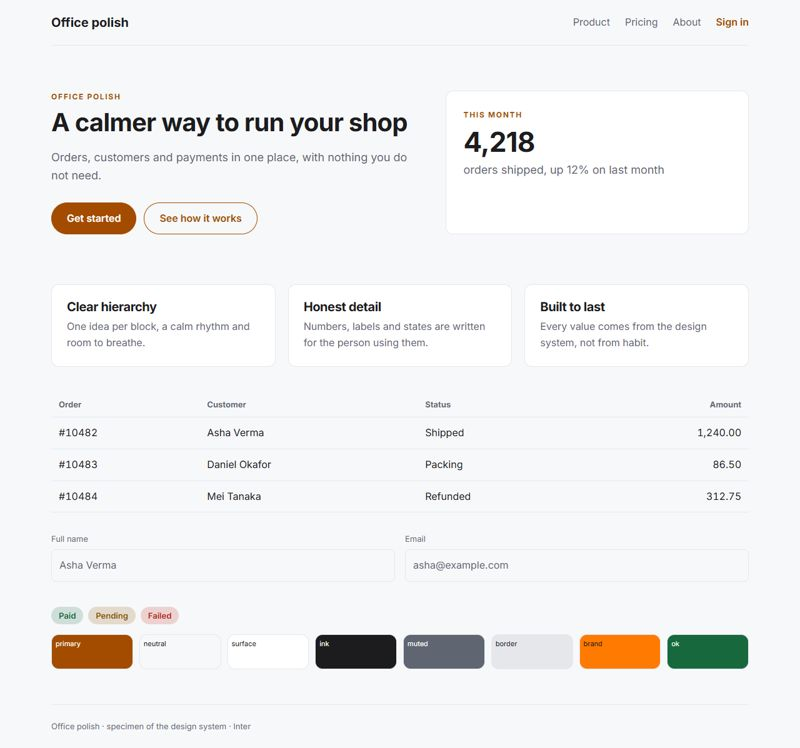
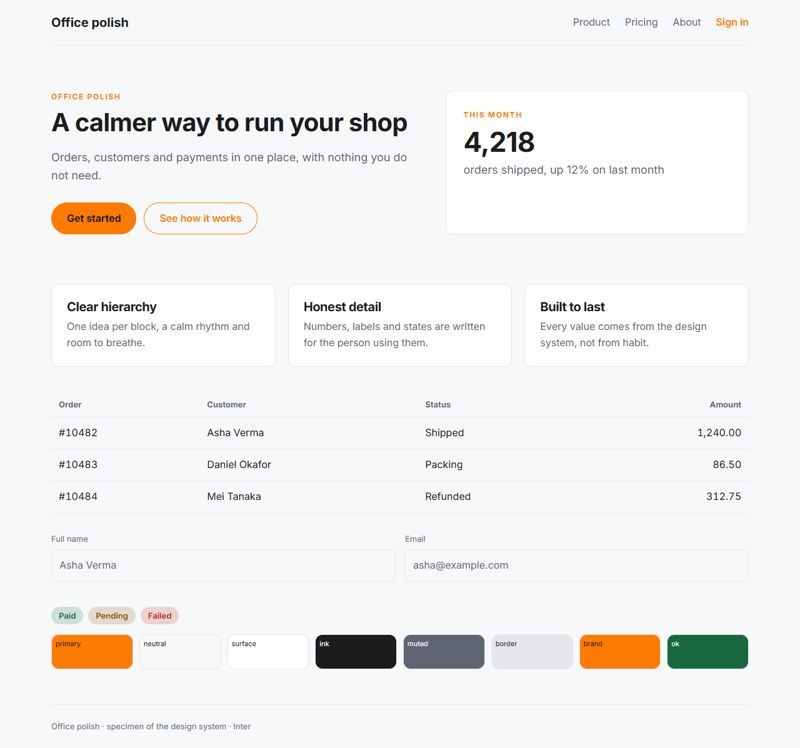
Bright orange default for the office design, C22 scorer reads cost and counts parametrized tests, record approvals (D-497)

Changed region(s): [[0.0625, 0.246, 0.3125, 0.3382], [0.0625, 0.8302, 0.1875, 0.8917], [0.0625, 0.123, 0.1562, 0.1537]]

diff --git a/scripts/dev/make_design_systems.py b/scripts/dev/make_design_systems.py
@@ -13,6 +13,7 @@ from pathlib import Path
 
 from forge.brand.kit import mix, readable_on
 from forge.designsystem.lint import describe_findings, lint_text
+from forge.designsystem.palettes import apply_palette, palette_by_id
 from forge.designsystem.spec import parse_design_md
 from forge.designsystem.specimen import specimen_html
 from forge.tools.design_candidates import draw
@@ -496,7 +497,7 @@ SYSTEMS = [
         "#FFFFFF",
         "#1C1C1E",
         "#5F6672",
-        "#A34C00",
+        "#FF7A00",
         "#E5E7EB",
         "Inter",
         "Inter",
@@ -505,7 +506,7 @@ SYSTEMS = [
         True,
         (5, 2, 4),
         "An office tool people use all day: quiet, regular and finished. One orange accent marks the main action, the active menu item and the counts; everything else is neutral. Every coloured label is built the same way, every card the same way, so the whole app reads as one system.",
-        "Orange is the only accent. The filled controls use the deeper orange (primary) so white text passes contrast; the bright orange (brand) is for the active-item bar, tab underline, progress, focus ring and icon chips, never for text on white.",
+        "Orange is the only accent. The filled controls use the bright orange (primary) with white text, a choice the owner accepted below the contrast guideline; the same orange (brand) marks the active-item bar, tab underline, progress, focus ring and icon chips. Orange is never used for small text on white; for a contrast-safe look pick the deep orange with design_palette.",
         [
             "One accent: orange marks the main action, the active menu item and the counts; everything else stays neutral",
             "Every coloured label is built the same way: a pale tint of the colour, darker text of the same hue and a thin inner ring",
@@ -526,7 +527,7 @@ SYSTEMS = [
         display_weight=700,
         display_size=40,
         tracking="-0.02em",
-        gaps="Inter has no Bengali or other Indic letters: for such content name a fallback face (Tiro Bangla for Bengali) with find_font. White text on the bright orange #FF7A00 is only 2.6 to 1, so filled controls use the deeper orange.",
+        gaps="Inter has no Bengali or other Indic letters: for such content name a fallback face (Tiro Bangla for Bengali) with find_font. White text on the bright orange #FF7A00 is only 2.6 to 1: the owner accepted this for filled controls, so keep those labels large and bold, and offer the deep orange (#A34C00, 5.9 to 1) when the audience needs the guideline met.",
     ),
     System(
         "ds-office-polish-dark",
@@ -726,6 +727,8 @@ async def main() -> int:
     status = 0
     for system in SYSTEMS:
         text = design_md(system)
+        if system.id == "ds-office-polish":
+            text = apply_palette(text, palette_by_id("orange-bright"))
         findings = [f for f in lint_text(text) if f.severity in ("error", "warning")]
         if findings:
             print(f"{system.id}: {describe_findings(findings)}")

diff --git a/scripts/dev/existing_bench/harness.py b/scripts/dev/existing_bench/harness.py
@@ -153,9 +153,9 @@ def is_test_file(relative: str) -> bool:
 def count_test_functions(path: Path) -> int:
     if not path.is_file():
         return 0
-    return len(
-        re.findall(r"^\s*(?:async\s+)?def test_", path.read_text(encoding="utf-8", errors="replace"), re.M)
-    )
+    text = path.read_text(encoding="utf-8", errors="replace")
+    # a new case in an existing parametrized test is a new test too, so `pytest.param(` counts as one
+    return len(re.findall(r"^\s*(?:async\s+)?def test_", text, re.M)) + text.count("pytest.param(")
 
 
 def tests_added(pristine: Path, delivered: Path, changes: dict[str, list[str]]) -> int:
@@ -402,6 +402,17 @@ def navigation(events: list[dict[str, Any]], expected: tuple[str, ...]) -> dict[
         "first_event": stamps[0] if stamps else None,
         "last_event": stamps[-1] if stamps else None,
     }
+
+
+def run_cost(events: list[dict[str, Any]]) -> float | None:
+    """The run's cost in USD: the largest `total_usd` of the cost_updated events (the counter only grows)."""
+    costs = [
+        float(event["payload"]["total_usd"])
+        for event in events
+        if event.get("type") == "cost_updated"
+        and isinstance(event.get("payload", {}).get("total_usd"), int | float)
+    ]
+    return round(max(costs), 4) if costs else None
 
 
 def seconds_between(first: str | None, last: str | None) -> int | None:

diff --git a/scripts/dev/run_existing_codebase_bench.py b/scripts/dev/run_existing_codebase_bench.py
@@ -104,7 +104,7 @@ def evaluate(
     result["seconds"] = (
         args.seconds if args.seconds is not None else H.seconds_between(nav["first_event"], nav["last_event"])
     )
-    result["cost_usd"] = args.cost
+    result["cost_usd"] = args.cost if args.cost is not None else H.run_cost(events)
     result["where_lost"] = args.where_lost or ""
     reasons: list[str] = []
     if result["check"]["status"] == "fail":

diff --git a/TODO.md b/TODO.md
@@ -190,9 +190,9 @@ Things only you can do or decide. Everything else below can be built without you
 - [ ] Re-run the three-design task (`designs/design-a..c`, ports 5171-5173) on the office laptop and score the result with the seven-line rubric; tune the critic's SHIP bar from real runs (too lenient / too harsh)
 - [x] (reachable: reach_smoke on the office laptop 2026-10-13, no bundling needed) Check that `raw.githubusercontent.com` is reachable from the office laptop (brand DESIGN.md fetch); if blocked, bundle five or six starter DESIGN.md files in our own words
 - [x] (done 2026-10-15: the `npx shadcn` commands ran on the office laptop, D-401, and the whole `shadcn_setup` tool here, D-402) **(registry ui.shadcn.com and the npm registry are reachable, reach_smoke 2026-10-13; the `npx shadcn` commands themselves are still untried) Check that the shadcn CLI and the shadcn/Magic UI registries are reachable from the office laptop**: run `npx shadcn@latest --version`, then `npx shadcn@latest add button` and `npx shadcn@latest add "@magicui/marquee"` in a scratch Vite project; if npm or `ui.shadcn.com` is blocked, say so and DebCraft keeps using `components-native.tsx` and the daisyUI quickstart offline (daisyUI needs only npm).
-- [ ] **Design studio (2c): approve the plan.** Answer: adopt Google's DESIGN.md as the format; Python port; bundle only own files plus CC0 prompts; autonomous style choice with an optional ask-me setting; whether to ask shadcn.io for permission to bundle its files (recommended: no); import only from a local file or one typed link; and whether to build DS1 to DS5 in one go or stop after DS3 to look at results (recommended: stop after DS3).
-- [ ] **Push the 2026-10-26 commits when you say so** (the diagram overlap check D-484, the audit fix D-485 and the concept step D-486 are pushed; D-487 to D-491 are local until you approve).
-- [ ] **Default orange for `ds-office-polish`:** you prefer the original bright orange (white text 2.6 to 1); today the design system defaults to the contrast-safe deep orange and `design_palette` lets the user pick the bright one (recorded as accepted). Say if the default should be the bright orange.
+- [x] **(approved 2026-10-27, D-497, recommended answers; DS1 to DS5 were already built)** **Design studio (2c): approve the plan.** Answer: adopt Google's DESIGN.md as the format; Python port; bundle only own files plus CC0 prompts; autonomous style choice with an optional ask-me setting; whether to ask shadcn.io for permission to bundle its files (recommended: no); import only from a local file or one typed link; and whether to build DS1 to DS5 in one go or stop after DS3 to look at results (recommended: stop after DS3).
+- [x] **(approved and pushed 2026-10-27, D-497)** **Push the 2026-10-26 commits when you say so** (the diagram overlap check D-484, the audit fix D-485 and the concept step D-486 are pushed; D-487 to D-491 are local until you approve).
+- [x] **(done 2026-10-27, D-497: bright orange is the default, recorded as accepted)** **Default orange for `ds-office-polish`:** you prefer the original bright orange (white text 2.6 to 1); today the design system defaults to the contrast-safe deep orange and `design_palette` lets the user pick the bright one (recorded as accepted). Say if the default should be the bright orange.
 - [ ] Optional: user installs taste-skill with `forge skill add https://github.com/Leonxlnx/taste-skill` if they want its full rule set (conflicts: it bans Inter, serifs, Lucide)
 - [x] **Presentations, decision 1: design engine.** Keep improving the free-form element list (cheaper, built) or add the HTML/CSS design path (P3.1; more freedom, large). Recommendation: P1 helpers first, decide after the benchmark. **ANSWERED 2026-10-13: both in stages (D-274): improve the free-form element engine now (P1), start the HTML/CSS path only if the benchmark shows the ceiling is too low.**
 - [x] **Presentations, decision 2: rendering without PowerPoint.** Optional LibreOffice (often needs admin rights), or our own renderer from the HTML path. Recommendation: optional LibreOffice plus PowerPoint as now. **ANSWERED 2026-10-13: PowerPoint only. No LibreOffice or own renderer; slide previews need PowerPoint on the machine, and on machines without it DebCraft says so.**

diff --git a/docs/DECISIONS.md b/docs/DECISIONS.md
@@ -4261,3 +4261,6 @@ BO10/BO11 from docs/WORDPRESS_STUDY.md, decided without waiting (D-051): `app-li
 
 ## D-496 — Eight more brand-page layouts (BO9, 2026-10-27)
 Eight new plain-HTML compositions, each with a drawn scene, its React twin and previews: `wellness-retreat`, `local-trades`, `event-lineup`, `portfolio-casestudies`, `saas-product-tour`, `nonprofit-appeal`, `school-courses`, `boutique-hotel` (16 `lay-` layouts now). They add the section kinds `docs/WORDPRESS_STUDY.md` listed as missing: centred hero, numbered steps, team and teacher lists, comparison table, alternating rows, masonry work grid, address cards, donate selector, multi-column footer. Options considered: (a) one layout per subject with colour slots only (rejected: pages would still share one structure), (b) copy block patterns from the WordPress pattern directory (rejected: GPL, clean-room rule D-492), (c) write our own layouts per subject (chosen; all markup, words and drawings original, so no licence attaches). Authored by four subagents in parallel, each checked at 1280 and 375 px (no sideways scroll, empty style audit) and the pages looked at. Known weak spots: the hotel hero's drawn building is mostly under the text gradient at phone width; the demo forms have no script (`action="#"`). Previews come from the new `scripts/dev/make_composition_previews.py`. Not measured: whether pages built from these vary more in live runs (needs a live brand-page benchmark).
+
+## D-497 — The three approvals (2026-10-27)
+The user approved the three waiting items and said the office-laptop work can wait. (1) **Push:** the local commits since 9aa8de3 (D-487 to D-496 and later) are pushed. (2) **Orange default:** `ds-office-polish` now starts from the bright orange `#FF7A00` with white text on filled controls, recorded as `contrast-accepted` (hover `#D96800`) so the lint and the audit leave it alone; generated by applying the `orange-bright` palette in `scripts/dev/make_design_systems.py`. The deep orange `#A34C00` (5.9 to 1) stays one choice away in `design_palette`, and the recipe says to keep filled-control labels large and bold. Options considered: keep the deep default (rejected: the user prefers the original look), a dark label on the bright orange (rejected: not what they asked for). (3) **Design studio plan (2c):** approved with the recommended answers: Google's DESIGN.md as the format, Python port, bundle only own files plus CC0 prompts (nothing bundled, D-387), the model chooses the style on its own (the ask-me setting was decided against, D-396), no request to shadcn.io, import only from a local file or one typed link. DS1 to DS5 were already built (D-348 to D-352); nothing new to build from this approval.

diff --git a/src/forge/skills/ui-design-quality/recipes/design-systems/ds-office-polish.design.md b/src/forge/skills/ui-design-quality/recipes/design-systems/ds-office-polish.design.md
@@ -6,8 +6,9 @@ dials:
   density: 5
   variance: 2
   motion: 4
+contrast-accepted: ["#FF7A00", "#D96800"]
 colors:
-  primary: "#A34C00"
+  primary: "#FF7A00"
   neutral: "#F7F8FA"
   surface: "#FFFFFF"
   ink: "#1C1C1E"
@@ -59,7 +60,7 @@ components:
     rounded: "{rounded.pill}"
     padding: 12px
   button-primary-hover:
-    backgroundColor: "#8B4100"
+    backgroundColor: "#D96800"
     textColor: "#FFFFFF"
   card:
     backgroundColor: "{colors.surface}"
@@ -80,7 +81,7 @@ An office tool people use all day: quiet, regular and finished. One orange accen
 Dials: VISUAL_DENSITY 5, DESIGN_VARIANCE 2, MOTION_INTENSITY 4 (1-10). Use for: back office, admin, crm, case management, government, operations, erp.
 
 ## Colors
-Orange is the only accent. The filled controls use the deeper orange (primary) so white text passes contrast; the bright orange (brand) is for the active-item bar, tab underline, progress, focus ring and icon chips, never for text on white.
+Orange is the only accent. The filled controls use the bright orange (primary) with white text, a choice the owner accepted below the contrast guideline; the same orange (brand) marks the active-item bar, tab underline, progress, focus ring and icon chips. Orange is never used for small text on white; for a contrast-safe look pick the deep orange with design_palette.
 
 ## Typography
 Inter for display and headings, Inter for text. Numbers in tables use tabular figures.
@@ -105,5 +106,5 @@ Corners 8px and 12px, buttons are pills.
 Grids collapse to one column at 768px, navigation to a menu, tables to cards; touch targets are at least 44px.
 
 ## Known Gaps
-- Inter has no Bengali or other Indic letters: for such content name a fallback face (Tiro Bangla for Bengali) with find_font. White text on the bright orange #FF7A00 is only 2.6 to 1, so filled controls use the deeper orange.
+- Inter has no Bengali or other Indic letters: for such content name a fallback face (Tiro Bangla for Bengali) with find_font. White text on the bright orange #FF7A00 is only 2.6 to 1: the owner accepted this for filled controls, so keep those labels large and bold, and offer the deep orange (#A34C00, 5.9 to 1) when the audience needs the guideline met.
 - Derived from the design philosophy of a user-owned back-office app (D-489); adapt every value to the product before building.

diff --git a/src/forge/skills/ui-design-quality/recipes/back-office-polish.md b/src/forge/skills/ui-design-quality/recipes/back-office-polish.md
@@ -44,7 +44,8 @@ from decoration. It comes from **one accent, one recipe per component and no exc
   and the user.
 
 ## Accessibility notes
-- White text on bright orange (`#FF7A00`) is only 2.6 to 1. Filled controls use the deeper orange (`primary`, `#A34C00`, white text 5.9 to 1); the bright orange
-  (`brand`) is for the menu bar, the underline, progress, the focus ring and icon tints, never for text on white.
+- White text on bright orange (`#FF7A00`) is only 2.6 to 1. The design system starts from the bright orange anyway, because the owner chose it and the file records
+  `contrast-accepted`; keep filled-control labels large and bold. The deeper orange (`#A34C00`, white text 5.9 to 1) is one choice away in `design_palette`. The bright
+  orange is never used for small text on white.
 - Muted text must stay 4.5 to 1 on every surface it sits on, including the tinted ones (use `#5F6672`, not `#6B7280`, on a grey tint).
 - Dark mode is a second set of tokens, not a list of overrides for white and slate.
